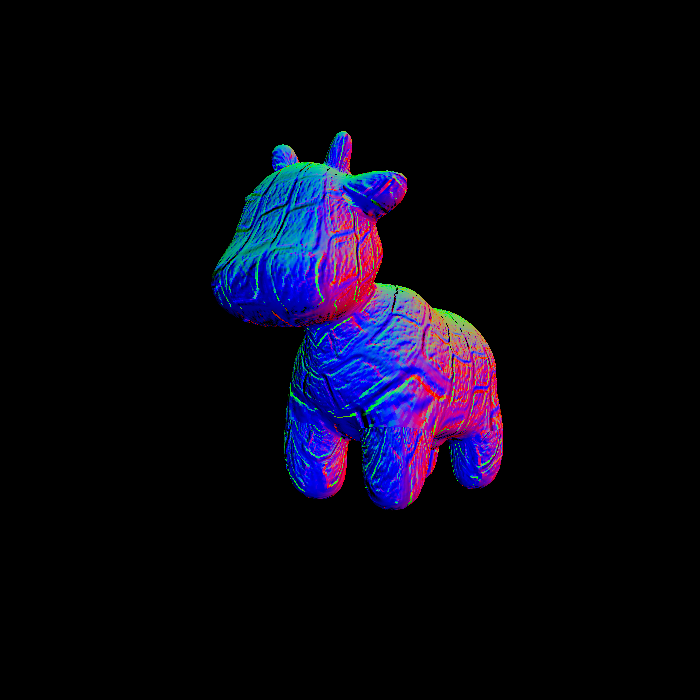
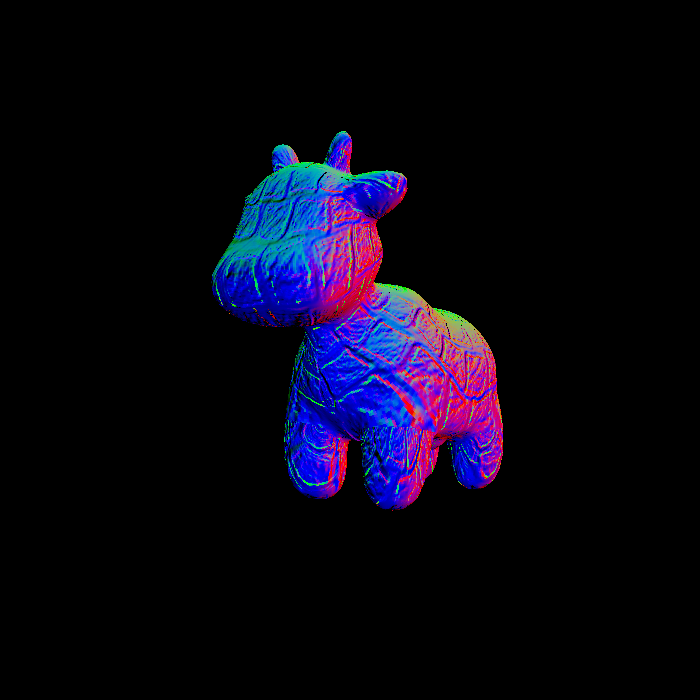
fix bug in bilinear method

Changed region(s): [[0.3, 0.18, 0.72, 0.75]]

diff --git a/HW3/code/Texture.hpp b/HW3/code/Texture.hpp
@@ -33,10 +33,10 @@ public:
         float denorm_u = u * width;
         float denorm_v = (1 - v) * height;
         float u0 = floor(denorm_u), v0 = floor(denorm_v), u1 = ceil(denorm_u), v1 = ceil(denorm_v);
-        auto color00 = image_data.at<cv::Vec3b>(u0, v0);
-        auto color01 = image_data.at<cv::Vec3b>(u0, v1);
-        auto color10 = image_data.at<cv::Vec3b>(u1, v0);
-        auto color11 = image_data.at<cv::Vec3b>(u1, v1);
+        auto color00 = image_data.at<cv::Vec3b>(v0, u0);
+        auto color01 = image_data.at<cv::Vec3b>(v1, u0);
+        auto color10 = image_data.at<cv::Vec3b>(v0, u1);
+        auto color11 = image_data.at<cv::Vec3b>(v1, u1);
         float s = (denorm_u - u0) / (u1 - u0);
         float t = (denorm_v - v0) / (v1 - v0);
         auto colordown = color00 + s * (color10 - color00);
